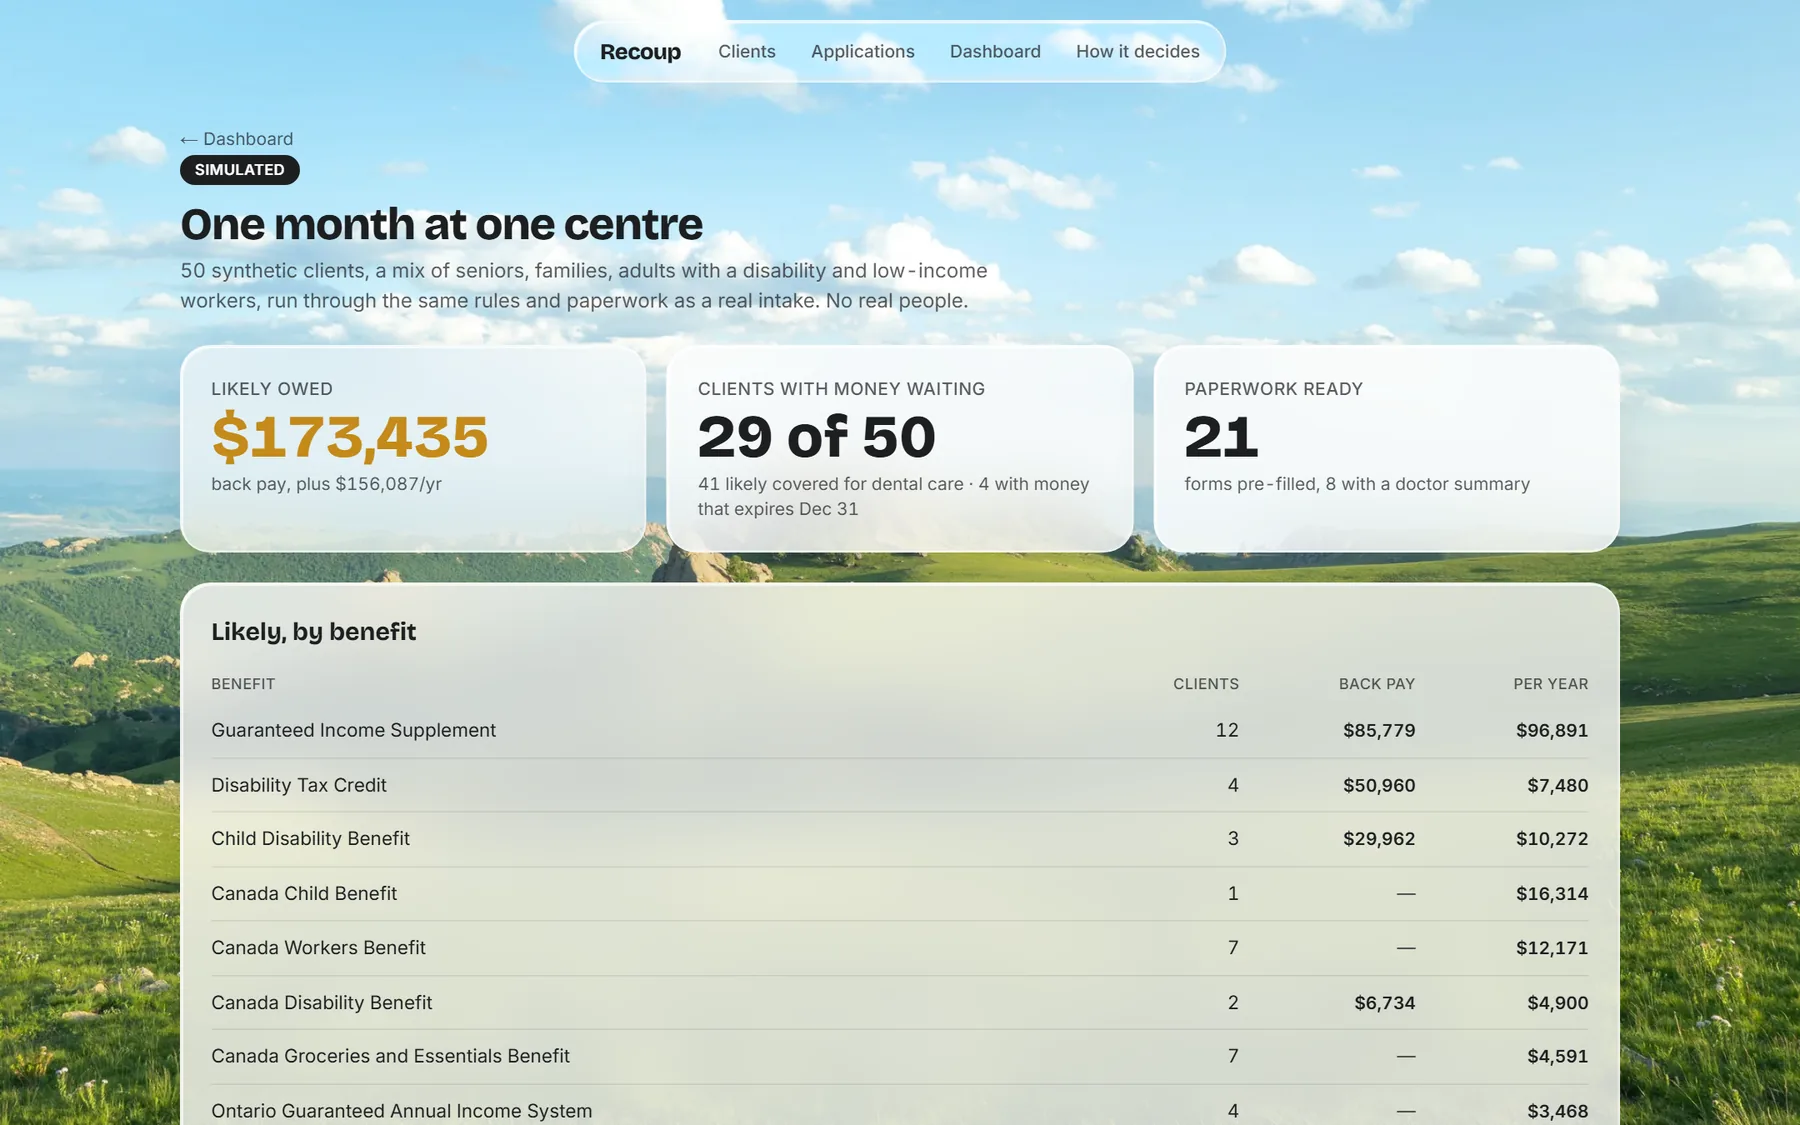
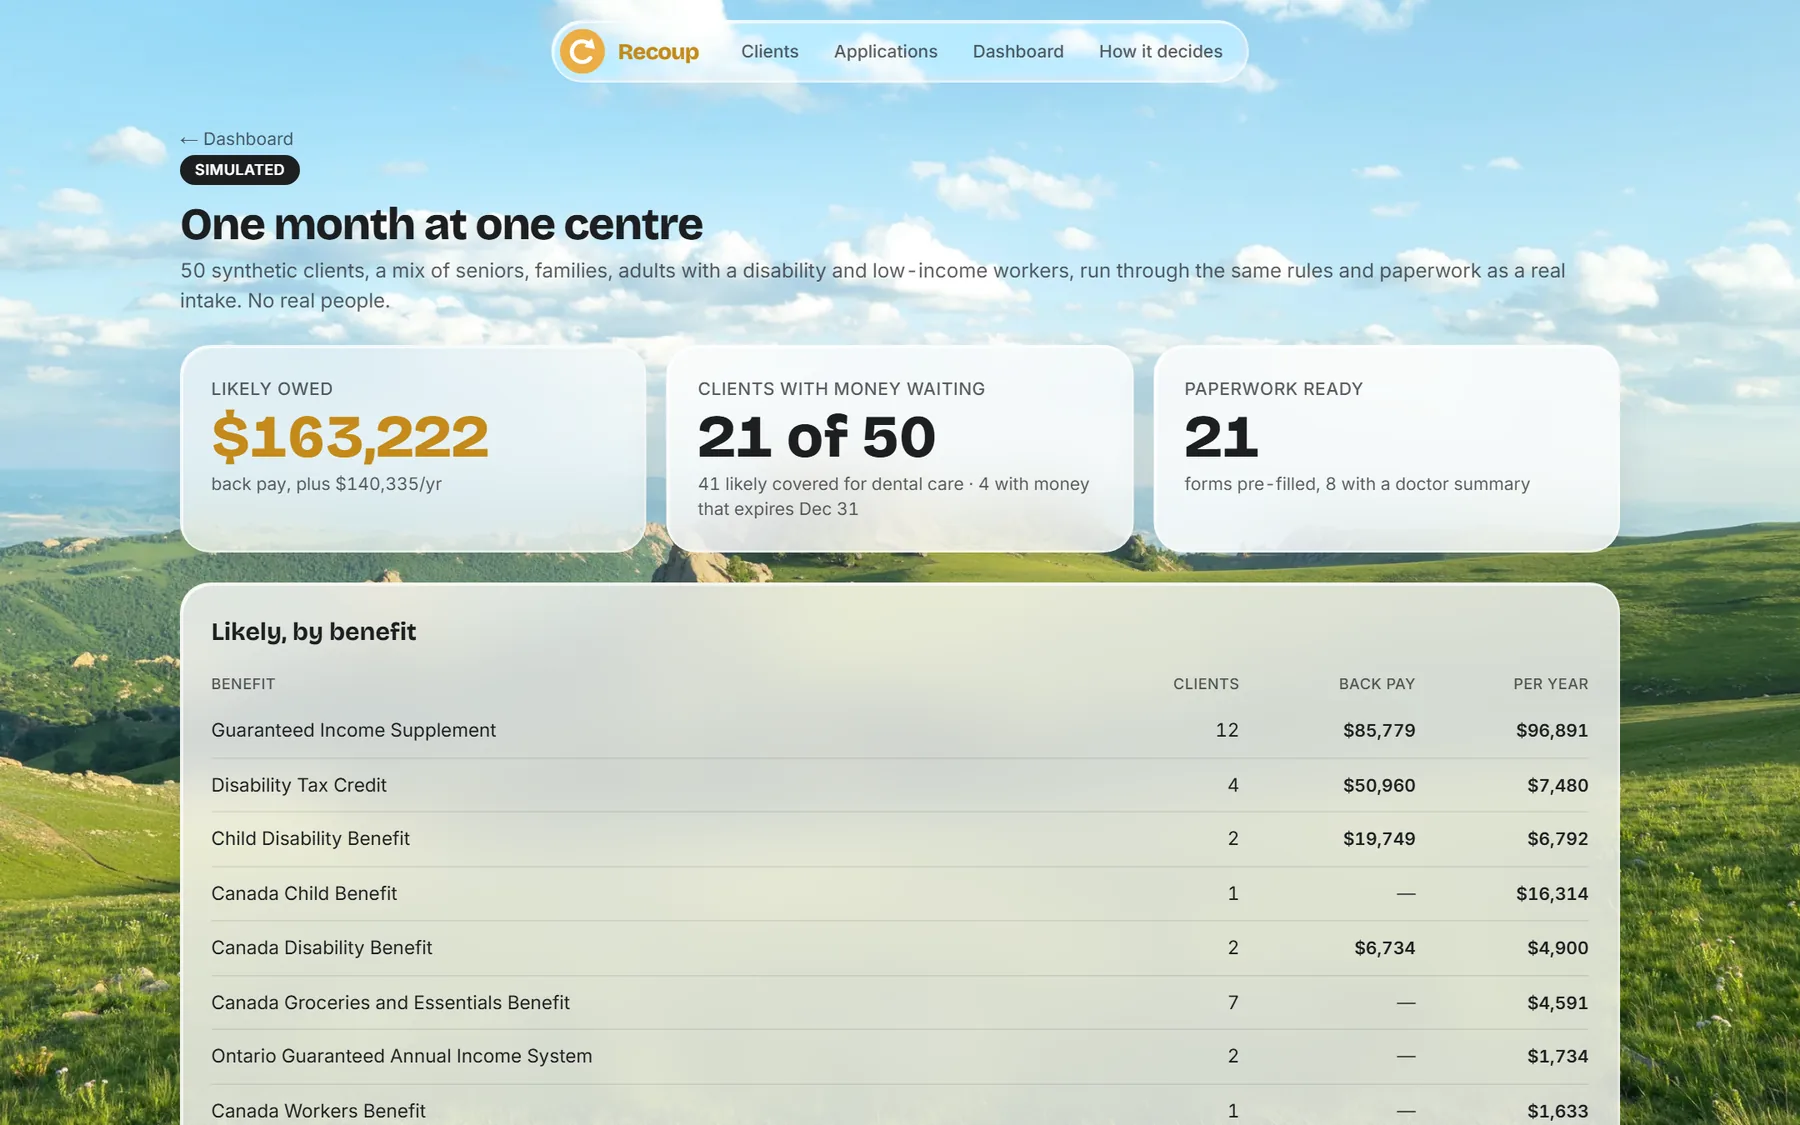
fix benefit rules, close the login redirect, fix dead buttons and update the readme
- stop counting benefits people already get and ask instead of assuming
- close the login redirect, keep client names off the public audit log, and fix dead or silent buttons
- update the readme for staff sign-in, refresh screenshots and remove unused files

diff --git a/components/LiveSession.tsx b/components/LiveSession.tsx
@@ -24,6 +24,7 @@ type Recognition = {
   stop(): void;
   onresult: (e: { resultIndex: number; results: ArrayLike<{ isFinal: boolean; 0: { transcript: string } }> }) => void;
   onend: () => void;
+  onerror: (e: { error: string }) => void;
 };
 const getRecognition = (): Recognition | null => {
   const w = window as unknown as { SpeechRecognition?: new () => Recognition; webkitSpeechRecognition?: new () => Recognition };
@@ -43,7 +44,7 @@ export function LiveSession({ clientId, clientName, initialFacts }: { clientId: 
   const [heard, setHeard] = useState<Fact[]>([]);
   const [draft, setDraft] = useState("");
   const [busy, setBusy] = useState(false);
-  const [saved, setSaved] = useState<"idle" | "saving" | "saved">("idle");
+  const [saved, setSaved] = useState<"idle" | "saving" | "saved" | "error">("idle");
   const recognition = useRef<Recognition | null>(null);
   const [micOn, setMicOn] = useState(false);
   const sentUpTo = useRef(0);
@@ -99,6 +100,13 @@ export function LiveSession({ clientId, clientName, initialFacts }: { clientId: 
       setInterim(partial);
     };
     rec.onend = () => recognition.current && rec.start();
+    // A denied or missing mic would otherwise restart forever while the screen says "Listening".
+    rec.onerror = (e) => {
+      if (e.error === "not-allowed" || e.error === "service-not-allowed" || e.error === "audio-capture") {
+        stop();
+        setMode("typing");
+      }
+    };
     recognition.current = rec;
     rec.start();
     setMicOn(true);
@@ -149,8 +157,12 @@ export function LiveSession({ clientId, clientName, initialFacts }: { clientId: 
 
   const save = async () => {
     setSaved("saving");
-    await fetch(`/api/clients/${clientId}/facts`, { method: "POST", headers: { "content-type": "application/json" }, body: JSON.stringify({ facts: heard }) });
-    setSaved("saved");
+    try {
+      const res = await fetch(`/api/clients/${clientId}/facts`, { method: "POST", headers: { "content-type": "application/json" }, body: JSON.stringify({ facts: heard }) });
+      setSaved(res.ok ? "saved" : "error");
+    } catch {
+      setSaved("error");
+    }
   };
 
   if (mode === "consent") {
@@ -272,7 +284,7 @@ export function LiveSession({ clientId, clientName, initialFacts }: { clientId: 
               disabled={!heard.length || saved === "saving"}
               className="rounded-full bg-night px-4 py-1.5 text-xs font-semibold text-white disabled:opacity-40"
             >
-              {saved === "saved" ? "Saved" : saved === "saving" ? "Saving…" : "Save to client"}
+              {saved === "saved" ? "Saved" : saved === "saving" ? "Saving…" : saved === "error" ? "Couldn't save. Try again" : "Save to client"}
             </button>
           </div>
           <div className="relative mt-1 min-h-0 flex-1">

diff --git a/app/(app)/trust/page.tsx b/app/(app)/trust/page.tsx
@@ -120,15 +120,13 @@ type AuditDetail = { clientId?: string; id?: string; programs?: ProgramId[]; kin
 async function AuditLog() {
   await connection();
   const db = await getDb();
-  const [rows, clients, apps] = await Promise.all([
+  const [rows, apps] = await Promise.all([
     db.select().from(schema.audit).orderBy(desc(schema.audit.id)).limit(2),
-    db.select({ id: schema.clients.id, name: schema.clients.name }).from(schema.clients),
     db.select({ id: schema.applications.id, clientId: schema.applications.clientId, program: schema.applications.program }).from(schema.applications),
   ]);
-  const clientName = (id?: string) => clients.find((c) => c.id === id)?.name ?? "a client";
   const programName = (id: string) => PROGRAMS[id as ProgramId]?.name ?? id;
 
-  /** One plain sentence per audit entry, using the details stored with it. */
+  /** One plain sentence per audit entry. This page is public, so it never names a client. */
   const describe = (action: string, d: AuditDetail): string => {
     const app = apps.find((a) => a.id === d.id);
     switch (action) {
@@ -137,15 +135,15 @@ async function AuditLog() {
       case "demo.reset":
         return "Reset the demo applications";
       case "consent.recorded":
-        return `Recorded consent for ${clientName(d.clientId)} (${d.kind === "recording" ? "recording" : "typed notes"})`;
+        return `Recorded consent for a client (${d.kind === "recording" ? "recording" : "typed notes"})`;
       case "facts.saved":
-        return `Saved ${d.fields?.length ?? 0} facts for ${clientName(d.clientId)}`;
+        return `Saved ${d.fields?.length ?? 0} facts for a client`;
       case "applications.opened":
-        return `Started ${d.programs?.length === 1 ? "an application" : `${d.programs?.length ?? 0} applications`} for ${clientName(d.clientId)}: ${(d.programs ?? []).map(programName).join(", ")}`;
+        return `Started ${d.programs?.length === 1 ? "an application" : `${d.programs?.length ?? 0} applications`} for a client: ${(d.programs ?? []).map(programName).join(", ")}`;
       case "application.moved":
-        return `Moved ${app ? `${programName(app.program)} for ${clientName(app.clientId)}` : "an application"}: ${d.from ? STAGE_LABEL[d.from] : "?"} → ${d.to ? STAGE_LABEL[d.to] : "?"}`;
+        return `Moved ${app ? `${programName(app.program)} for a client` : "an application"}: ${d.from ? STAGE_LABEL[d.from] : "?"} → ${d.to ? STAGE_LABEL[d.to] : "?"}`;
       case "application.note":
-        return `Added a note to ${app ? `${programName(app.program)} for ${clientName(app.clientId)}` : "an application"}`;
+        return `Added a note to ${app ? `${programName(app.program)} for a client` : "an application"}`;
       default:
         return action;
     }

diff --git a/lib/rules/gis-oas.ts b/lib/rules/gis-oas.ts
@@ -51,6 +51,13 @@ export function evaluateGis(book: FactBook, ctx: RuleContext): EligibilityResult
   const age = book.number("person.age");
   if (age === undefined) return r.need("person.age").done("possible");
   if (age < OAS_AGE) return null;
+  // GIS is only paid to people who qualify for OAS, which needs 10 years in Canada after 18.
+  const residence = book.number("person.yearsInCanadaSince18");
+  if (residence !== undefined && residence < OAS_HISTORY.minimumResidenceYears.value) {
+    r.because(`GIS is paid with Old Age Security, which needs at least ${OAS_HISTORY.minimumResidenceYears.value} years in Canada after 18; ${residence} reported.`);
+    return r.done("not_eligible");
+  }
+  if (book.bool("benefits.receivesGis") === undefined) r.need("benefits.receivesGis");
 
   const status = book.string("person.maritalStatus");
   if (status === undefined) r.need("person.maritalStatus");
@@ -85,7 +92,9 @@ export function evaluateGis(book: FactBook, ctx: RuleContext): EligibilityResult
   const lastTaxYear = ctx.asOf.getFullYear() - 1;
   if (lastFiled === undefined) r.need("tax.lastYearFiled");
   else if (lastFiled < lastTaxYear) {
-    r.because(`GIS is based on last year's income, so the ${lastTaxYear - 1} and ${lastTaxYear} tax returns need to be filed first.`);
+    // GIS back pay uses the year-before-last's income and payments from July use last year's.
+    const missing = [lastTaxYear - 1, lastTaxYear].filter((y) => y > lastFiled);
+    r.because(`GIS is based on last year's income, so the ${missing.join(" and ")} tax ${missing.length === 1 ? "return needs" : "returns need"} to be filed first.`);
   }
   r.assume("Single-pensioner rates; back pay counts the 11 months before this month at each quarter's rate.");
 
@@ -133,6 +142,8 @@ export function evaluateOas(book: FactBook, ctx: RuleContext): EligibilityResult
 
   const r = new ResultBuilder("oas", benefitYearOf(ctx.asOf));
   r.citeParams("Old Age Security payments", GIS_OAS.oasMonthly65to74, OAS_HISTORY.fullResidenceYears);
+  // Most seniors are enrolled automatically, so an unknown answer is a question, not a no.
+  if (book.bool("benefits.receivesOas") === undefined) r.need("benefits.receivesOas");
 
   const years = book.number("person.yearsInCanadaSince18");
   const full = OAS_HISTORY.fullResidenceYears.value;

diff --git a/components/FollowUpDraft.tsx b/components/FollowUpDraft.tsx
@@ -5,18 +5,22 @@ import { recordFollowUp } from "@/app/(app)/tracker/actions";
 
 /** Ask the AI for a follow-up; staff read, edit and approve it before anything "goes out". */
 export function FollowUpDraft({ applicationId }: { applicationId: string }) {
-  const [state, setState] = useState<"idle" | "drafting" | "ready" | "error">("idle");
+  const [state, setState] = useState<"idle" | "drafting" | "ready" | "sent" | "error">("idle");
   const [toAgency, setToAgency] = useState("");
   const [toClient, setToClient] = useState("");
 
   const draft = async () => {
     setState("drafting");
-    const res = await fetch("/api/followup", { method: "POST", headers: { "content-type": "application/json" }, body: JSON.stringify({ applicationId }) });
-    const body = await res.json();
-    if (!res.ok) return setState("error");
-    setToAgency(body.toAgency);
-    setToClient(body.toClient);
-    setState("ready");
+    try {
+      const res = await fetch("/api/followup", { method: "POST", headers: { "content-type": "application/json" }, body: JSON.stringify({ applicationId }) });
+      if (!res.ok) return setState("error");
+      const body = await res.json();
+      setToAgency(body.toAgency);
+      setToClient(body.toClient);
+      setState("ready");
+    } catch {
+      setState("error");
+    }
   };
 
   if (state === "idle" || state === "error") {
@@ -27,9 +31,16 @@ export function FollowUpDraft({ applicationId }: { applicationId: string }) {
     );
   }
   if (state === "drafting") return <p className="mt-3 text-xs text-ink-soft">Drafting…</p>;
+  if (state === "sent") return <p role="status" className="mt-3 text-xs font-semibold text-ink">Follow-up approved and marked sent (simulated).</p>;
 
   return (
-    <form action={recordFollowUp} className="mt-3 space-y-2">
+    <form
+      action={async (form) => {
+        await recordFollowUp(form);
+        setState("sent");
+      }}
+      className="mt-3 space-y-2"
+    >
       <input type="hidden" name="id" value={applicationId} />
       <label className="block text-[11px] font-semibold tracking-wide text-ink-soft uppercase">
         To the government office

diff --git a/lib/rules/gis-oas.test.ts b/lib/rules/gis-oas.test.ts
@@ -34,7 +34,7 @@ describe("GIS couple, both on OAS, Oct–Dec 2026 (official table rows)", () => 
 
   it("a married senior gets a couple estimate, not a blank", () => {
     const result = evaluateGis(
-      facts({ "person.age": 71, "person.maritalStatus": "married", "money.familyNetIncome": 22410, "benefits.receivesOas": true, "tax.lastYearFiled": 2025 }),
+      facts({ "person.age": 71, "person.maritalStatus": "married", "money.familyNetIncome": 22410, "benefits.receivesOas": true, "benefits.receivesGis": false, "tax.lastYearFiled": 2025 }),
       defaultContext(),
     )!;
     expect(result.status).toBe("likely");
@@ -69,6 +69,22 @@ describe("evaluateGis", () => {
     expect(result.backPayEstimate).toBe(12236);
     expect(result.annualEstimate).toBe(13667);
     expect(result.reasons.join(" ")).toMatch(/2024 and 2025 tax returns/);
+  });
+
+  it("needs 10 years in Canada after 18, like OAS", () => {
+    const result = evaluateGis(facts({ "person.age": 70, "person.maritalStatus": "single", "person.yearsInCanadaSince18": 5, "money.netIncome": 0, "benefits.receivesGis": false }), defaultContext())!;
+    expect(result.status).toBe("not_eligible");
+  });
+
+  it("asks whether they already get GIS instead of assuming not", () => {
+    const result = evaluateGis(facts({ "person.age": 70, "person.maritalStatus": "single", "money.netIncome": 0, "benefits.receivesOas": true }), defaultContext())!;
+    expect(result.status).toBe("possible");
+    expect(result.missing).toContain("benefits.receivesGis");
+  });
+
+  it("only asks for the returns that are actually missing", () => {
+    const result = evaluateGis(facts({ "person.age": 70, "person.maritalStatus": "single", "money.netIncome": 0, "benefits.receivesOas": true, "benefits.receivesGis": false, "tax.lastYearFiled": 2024 }), defaultContext())!;
+    expect(result.reasons.join(" ")).toMatch(/the 2025 tax return needs/);
   });
 
   it("skips people already receiving GIS or under 65", () => {

diff --git a/lib/rules/ontario.test.ts b/lib/rules/ontario.test.ts
@@ -1,5 +1,5 @@
 import { describe, expect, it } from "vitest";
-import { workersBenefit } from "./cwb";
+import { evaluateCwb, workersBenefit } from "./cwb";
 import { defaultContext } from "./framework";
 import { energyPropertyCredit, evaluateGains, evaluateTrillium, gainsSingleMonthly, salesTaxCredit } from "./ontario";
 import { facts } from "./test-helpers";
@@ -60,5 +60,19 @@ describe("Canada Workers Benefit 2025 (CRA zero points)", () => {
     [60000, 49393, true, 0],
   ])("working %d, net %d, family %s → %d", (working, net, family, expected) => {
     expect(workersBenefit(working, net, family)).toBeCloseTo(expected, 2);
+  });
+});
+
+describe("already paid or not eligible", () => {
+  it("skips GAINS for someone already on GIS (it's paid with it)", () => {
+    expect(evaluateGains(facts({ "person.age": 70, "person.province": "ON", "person.maritalStatus": "single", "money.netIncome": 9000, "benefits.receivesOas": true, "benefits.receivesGis": true }), defaultContext())).toBeNull();
+  });
+});
+
+describe("Canada Workers Benefit", () => {
+  it("is already paid once last year's return is filed", () => {
+    const worker = { "person.age": 30, "person.maritalStatus": "single", "money.workingIncome": 15000, "money.netIncome": 15000 };
+    expect(evaluateCwb(facts({ ...worker, "tax.lastYearFiled": 2025 }), defaultContext())).toBeNull();
+    expect(evaluateCwb(facts({ ...worker, "tax.lastYearFiled": 2023 }), defaultContext())?.status).toBe("likely");
   });
 });

diff --git a/app/login/LoginForm.tsx b/app/login/LoginForm.tsx
@@ -4,13 +4,22 @@ import { useSearchParams } from "next/navigation";
 import { useState, type FormEvent } from "react";
 import { createClient } from "@/lib/supabase/client";
 
-/** Only send people back to a page inside this site, never to another host. */
+/**
+ * Only send people back to a page inside this site, never to another host. Resolving against our own
+ * origin catches tricks a prefix check misses, like "/\evil.com" or tabs and newlines in the URL.
+ */
 function safeNext(next: string | null) {
-  return next && next.startsWith("/") && !next.startsWith("//") ? next : "/clients";
+  if (!next) return "/clients";
+  try {
+    const url = new URL(next, window.location.origin);
+    return url.origin === window.location.origin ? url.pathname + url.search : "/clients";
+  } catch {
+    return "/clients";
+  }
 }
 
 export function LoginForm() {
-  const next = safeNext(useSearchParams().get("next"));
+  const nextParam = useSearchParams().get("next");
   const [error, setError] = useState<string | null>(null);
   const [pending, setPending] = useState(false);
 
@@ -29,7 +38,7 @@ export function LoginForm() {
       return;
     }
     // A full load so the proxy and every server component see the new session cookie.
-    window.location.assign(next);
+    window.location.assign(safeNext(nextParam));
   }
 
   return (

diff --git a/app/(app)/clients/[id]/page.tsx b/app/(app)/clients/[id]/page.tsx
@@ -11,6 +11,7 @@ import { SourceLink } from "@/components/ui/SourceLink";
 import { describeField } from "@/lib/fields";
 import { formatMoney } from "@/lib/format";
 import { PROGRAMS, REFERRALS } from "@/lib/programs";
+import { hasReplay } from "@/lib/replays";
 import type { EligibilityResult } from "@/lib/types";
 import { startApplications } from "../../tracker/actions";
 
@@ -40,9 +41,11 @@ async function ClientResults({ params }: { params: Promise<{ id: string }> }) {
           ← Clients
         </Link>
         <div className="flex flex-wrap justify-end gap-2">
-          <Link href={`/clients/${id}/session`} className="rounded-full border border-ink/20 bg-white/60 px-5 py-2.5 text-sm font-semibold">
-            Replay intake
-          </Link>
+          {hasReplay(client.personaId) && (
+            <Link href={`/clients/${id}/session`} className="rounded-full border border-ink/20 bg-white/60 px-5 py-2.5 text-sm font-semibold">
+              Replay intake
+            </Link>
+          )}
           <Link href={`/clients/${id}/intake`} className="rounded-full border border-ink/20 bg-white/60 px-5 py-2.5 text-sm font-semibold">
             New intake
           </Link>

diff --git a/lib/packages/forms.ts b/lib/packages/forms.ts
@@ -1,5 +1,7 @@
 import type { EligibilityResult, Fact, ProgramId } from "@/lib/types";
 import { FactBook } from "@/lib/rules/framework";
+import { gisIncome } from "@/lib/rules/gis-oas";
+import { OAS_HISTORY } from "@/lib/rules/params";
 import { fillT2201, splitAddress, splitName, type T2201Fill } from "./t2201";
 
 // Same shapes as components/forms/RC66's RC66Data and ISP3025's ISP3025Data.
@@ -63,7 +65,8 @@ export function fillIsp3025(facts: Fact[]): ISP3025Fill | null {
   if (book.bool("benefits.receivesOas") !== true) return null;
   return {
     applicant: applicantOf(book),
-    estimatedIncome: book.number("money.netIncome") ?? 0,
+    // The form asks for income without OAS or GIS, the same income GIS itself counts.
+    estimatedIncome: gisIncome(book.number("money.netIncome") ?? 0, book.number("money.workingIncome") ?? 0, OAS_HISTORY.oasPaidAge65to74.value["2025"] ?? 0),
     requestRetroactive: true,
   };
 }

diff --git a/app/(app)/clients/[id]/session/page.tsx b/app/(app)/clients/[id]/session/page.tsx
@@ -4,9 +4,7 @@ import { connection } from "next/server";
 import { Suspense } from "react";
 import { SessionReplay, type Turn } from "@/components/SessionReplay";
 import { getClient, getFacts } from "@/lib/db/queries";
-import sFamily from "@/seed/transcripts/s-family.json";
-
-const SCRIPTS: Record<string, Turn[]> = { "s-family": sFamily as Turn[] };
+import { REPLAYS } from "@/lib/replays";
 
 export default function SessionPage(props: PageProps<"/clients/[id]/session">) {
   return (
@@ -22,7 +20,7 @@ async function Session({ params }: { params: Promise<{ id: string }> }) {
   const client = await getClient(id);
   if (!client) notFound();
   const facts = await getFacts(id);
-  const turns = SCRIPTS[client.personaId ?? ""] ?? [];
+  const turns: Turn[] = REPLAYS[client.personaId ?? ""] ?? [];
 
   return (
     <div className="space-y-5">

diff --git a/lib/rules/ontario.ts b/lib/rules/ontario.ts
@@ -13,6 +13,10 @@ export function evaluateGains(book: FactBook, ctx: RuleContext): EligibilityResu
   if (book.string("person.province") !== "ON") return null;
   const status = book.string("person.maritalStatus");
   if (status === "married" || status === "common_law") return null;
+  // Paid automatically alongside GIS, so someone already on GIS already gets it.
+  if (book.bool("benefits.receivesGis") === true) return null;
+  const years = book.number("person.yearsInCanadaSince18");
+  if (years !== undefined && years < OAS_HISTORY.minimumResidenceYears.value) return null;
 
   const r = new ResultBuilder("ontario_gains", benefitYearOf(ctx.asOf));
   r.citeParams("Ontario GAINS rates", GAINS.maxMonthlySingle, GAINS.reductionPer24);

diff --git a/lib/rules/child-disability-benefit.test.ts b/lib/rules/child-disability-benefit.test.ts
@@ -32,6 +32,10 @@ describe("evaluateChildDisabilityBenefit", () => {
 
   it("skips adults and children without a limitation", () => {
     expect(evaluateChildDisabilityBenefit(facts({ "household.childCount": 1, "child.0.age": 12 }), defaultContext())).toBeNull();
+    // An approved DTC means it's already paid with the Canada Child Benefit.
+    expect(
+      evaluateChildDisabilityBenefit(facts({ "child.0.age": 9, "child.0.limitation.walking": true, "child.0.dtcApproved": true, "money.familyNetIncome": 40000 }), defaultContext()),
+    ).toBeNull();
     expect(
       evaluateChildDisabilityBenefit(facts({ "child.0.age": 19, "child.0.limitation.walking": true }), defaultContext()),
     ).toBeNull();
